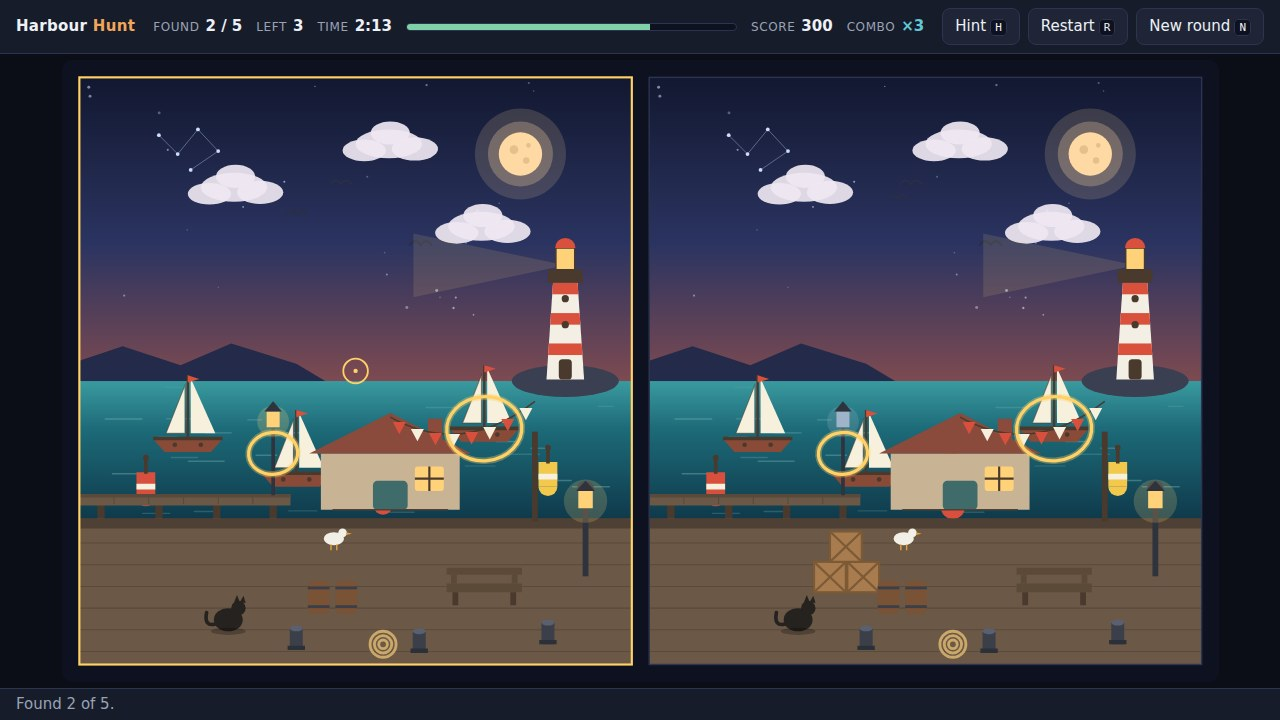
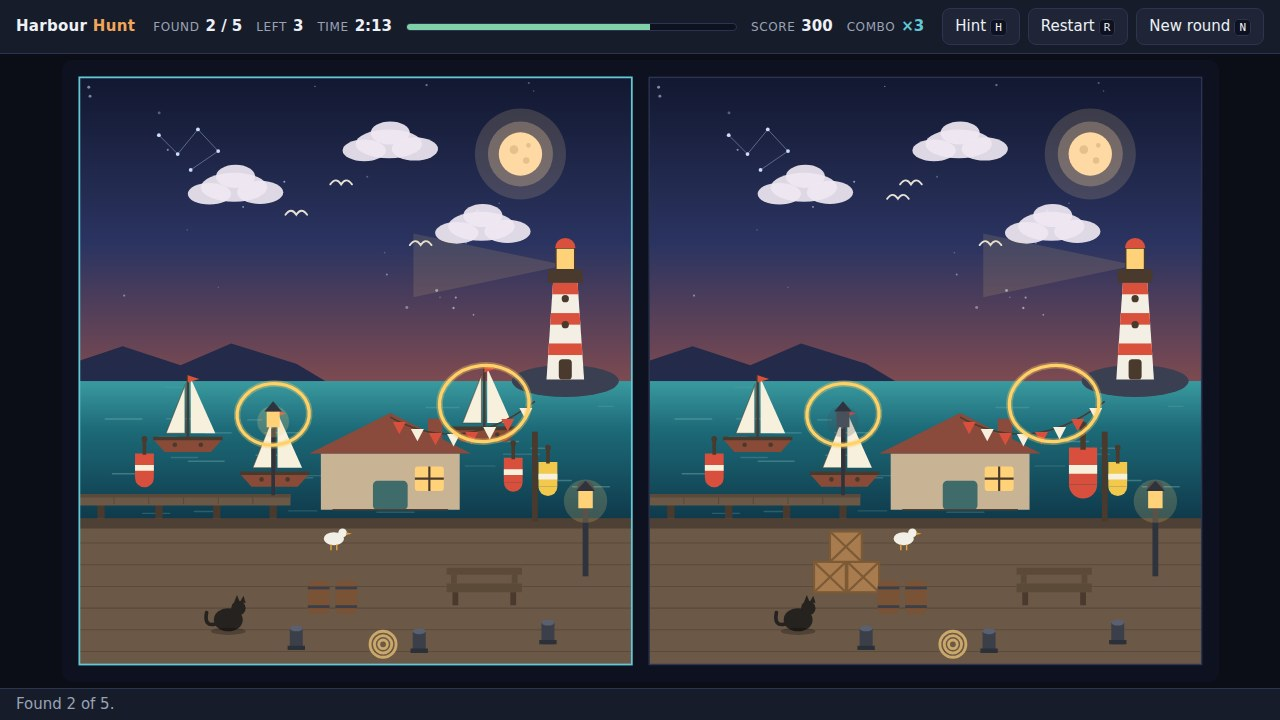
Render missing differences, place hit regions on the visible change, refresh shots
The missing-object mutation was never applied (only the extra prop honoured
present), so a 'missing' round marked a spot that looked the same. Hit regions
now follow each prop's visible body rather than its anchor, the buoy that sat
behind the boathouse moved into open water, and the lamps, birds and size
changes are strong enough to find. Screenshots re-taken.

diff --git a/app/index.html b/app/index.html
@@ -172,7 +172,7 @@ var C = {
   quay: '#6b5847', quayDark: '#4e4034', plank: '#5a4a3c',
   moon: '#ffd9a3', moonAlt: '#cfe6ff',
   cloud: '#efe7f2', cloudAlt: '#f2c9c0',
-  bird: '#2a2f45',
+  bird: '#e6e1d4',
   hill: '#232a4a',
   tower: '#f4efe4', band: '#d9503c', bandAlt: '#3f6b8a',
   rock: '#3a3f52',
@@ -187,7 +187,7 @@ var C = {
   rope: '#c9a86a',
   cat: '#26221f',
   bench: '#5c4a38',
-  lamp: '#2f333d', lampGlass: '#ffd27a', lampGlassAlt: '#9fb4c8',
+  lamp: '#2f333d', lampGlass: '#ffd27a', lampGlassAlt: '#4a4f5c',
   gull: '#f2efe6', beak: '#e0a13c',
   star: '#cfe0ff',
   marker: '#ffd166',
@@ -288,7 +288,7 @@ function buildScene(rng) {
     id: 'moon', x: 610, y: 106, r: 46,
     diffs: [
       { type: 'colour', label: 'the moon', color: C.moonAlt },
-      { type: 'size', label: 'the moon', scale: 1.38 },
+      { type: 'size', label: 'the moon', scale: 1.55 },
       { type: 'position', label: 'the moon', dx: -52, dy: 26 }
     ],
     draw: function (ctx, o) {
@@ -396,7 +396,7 @@ function buildScene(rng) {
     id: 'lighthouse', x: 672, y: 356, r: 62,
     diffs: [
       { type: 'colour', label: 'the lighthouse bands', color: C.bandAlt },
-      { type: 'size', label: 'the lighthouse', scale: 0.8 },
+      { type: 'size', label: 'the lighthouse', scale: 0.7 },
       { type: 'position', label: 'the lighthouse', dx: -44, dy: 0 }
     ],
     draw: function (ctx, o) {
@@ -453,17 +453,17 @@ function buildScene(rng) {
   }
 
   var boatSpecs = [
-    { id: 'boat1', x: 150, y: 500, r: 54, sail: C.sail, hull: C.hull,
-      diffs: [{ type: 'colour', label: 'a sail', color: C.sailAlt }, { type: 'size', label: 'a boat', scale: 0.78 }] },
-    { id: 'boat2', x: 300, y: 548, r: 52, sail: C.sail, hull: C.hull,
+    { id: 'boat1', x: 150, y: 500, r: 54, hit: { x: 150, y: 465, r: 62 }, sail: C.sail, hull: C.hull,
+      diffs: [{ type: 'colour', label: 'a sail', color: C.sailAlt }, { type: 'size', label: 'a boat', scale: 0.68 }] },
+    { id: 'boat2', x: 270, y: 548, r: 52, hit: { x: 270, y: 513, r: 62 }, sail: C.sail, hull: C.hull,
       diffs: [{ type: 'position', label: 'a boat', dx: 56, dy: 8 }] },
-    { id: 'boat3', x: 560, y: 486, r: 52, sail: C.sail, hull: C.hull,
+    { id: 'boat3', x: 560, y: 486, r: 52, hit: { x: 560, y: 451, r: 62 }, sail: C.sail, hull: C.hull,
       diffs: [{ type: 'missing', label: 'a boat' }, { type: 'colour', label: 'a hull', color: C.hullAlt }] }
   ];
   for (i = 0; i < boatSpecs.length; i += 1) {
     (function (spec) {
       add({
-        id: spec.id, x: spec.x, y: spec.y, r: spec.r, diffs: spec.diffs,
+        id: spec.id, x: spec.x, y: spec.y, r: spec.r, hit: spec.hit, diffs: spec.diffs,
         draw: function (ctx, o) { boatDraw(ctx, o, spec); }
       });
     }(boatSpecs[i]));
@@ -479,14 +479,14 @@ function buildScene(rng) {
   }
 
   var buoySpecs = [
-    { id: 'buoy1', x: 92, y: 574, r: 32, color: C.buoy, diffs: [{ type: 'colour', label: 'a buoy', color: C.buoyAlt }, { type: 'missing', label: 'a buoy' }] },
-    { id: 'buoy2', x: 420, y: 586, r: 32, color: C.buoy, diffs: [{ type: 'size', label: 'a buoy', scale: 1.3 }, { type: 'position', label: 'a buoy', dx: 40, dy: -8 }] },
-    { id: 'buoy3', x: 648, y: 560, r: 30, color: C.buoyAlt, diffs: [{ type: 'missing', label: 'a buoy' }] }
+    { id: 'buoy1', x: 90, y: 548, r: 32, hit: { x: 90, y: 534, r: 44 }, color: C.buoy, diffs: [{ type: 'colour', label: 'a buoy', color: C.buoyAlt }, { type: 'missing', label: 'a buoy' }] },
+    { id: 'buoy2', x: 600, y: 554, r: 32, hit: { x: 600, y: 540, r: 44 }, color: C.buoy, diffs: [{ type: 'size', label: 'a buoy', scale: 1.5 }, { type: 'position', label: 'a buoy', dx: 40, dy: -8 }] },
+    { id: 'buoy3', x: 648, y: 560, r: 30, hit: { x: 648, y: 546, r: 42 }, color: C.buoyAlt, diffs: [{ type: 'missing', label: 'a buoy' }] }
   ];
   for (i = 0; i < buoySpecs.length; i += 1) {
     (function (spec) {
       add({
-        id: spec.id, x: spec.x, y: spec.y, r: spec.r, diffs: spec.diffs,
+        id: spec.id, x: spec.x, y: spec.y, r: spec.r, hit: spec.hit, diffs: spec.diffs,
         draw: function (ctx, o) { buoyDraw(ctx, o, spec); }
       });
     }(buoySpecs[i]));
@@ -509,7 +509,7 @@ function buildScene(rng) {
   });
 
   add({
-    id: 'pierlamp', x: 268, y: 520, r: 34,
+    id: 'pierlamp', x: 268, y: 520, r: 34, hit: { x: 268, y: 466, r: 50 },
     diffs: [{ type: 'colour', label: 'the pier lamp', color: C.lampGlassAlt }, { type: 'position', label: 'the pier lamp', dx: -70, dy: 0 }],
     draw: function (ctx, o) {
       var glass = (o && o.color) || C.lampGlass;
@@ -598,8 +598,8 @@ function buildScene(rng) {
   }
 
   add({
-    id: 'barrels', x: 336, y: 742, r: 44,
-    diffs: [{ type: 'size', label: 'the barrels', scale: 1.28 }, { type: 'position', label: 'the barrels', dx: -52, dy: 0 }],
+    id: 'barrels', x: 336, y: 742, r: 44, hit: { x: 336, y: 720, r: 44 },
+    diffs: [{ type: 'size', label: 'the barrels', scale: 1.45 }, { type: 'position', label: 'the barrels', dx: -52, dy: 0 }],
     draw: function (ctx) {
       barrel(ctx, -20);
       barrel(ctx, 18);
@@ -614,14 +614,14 @@ function buildScene(rng) {
   }
 
   var bollardSpecs = [
-    { id: 'bollard1', x: 300, y: 792, r: 26, diffs: [{ type: 'position', label: 'a bollard', dx: 42, dy: -6 }] },
-    { id: 'bollard2', x: 470, y: 796, r: 26, diffs: [{ type: 'missing', label: 'a bollard' }] },
-    { id: 'bollard3', x: 648, y: 784, r: 26, diffs: [{ type: 'position', label: 'a bollard', dx: -40, dy: 4 }] }
+    { id: 'bollard1', x: 300, y: 792, r: 26, hit: { x: 300, y: 780, r: 30 }, diffs: [{ type: 'position', label: 'a bollard', dx: 42, dy: -6 }] },
+    { id: 'bollard2', x: 470, y: 796, r: 26, hit: { x: 470, y: 784, r: 30 }, diffs: [{ type: 'missing', label: 'a bollard' }] },
+    { id: 'bollard3', x: 648, y: 784, r: 26, hit: { x: 648, y: 772, r: 30 }, diffs: [{ type: 'position', label: 'a bollard', dx: -40, dy: 4 }] }
   ];
   for (i = 0; i < bollardSpecs.length; i += 1) {
     (function (spec) {
       add({
-        id: spec.id, x: spec.x, y: spec.y, r: spec.r, diffs: spec.diffs,
+        id: spec.id, x: spec.x, y: spec.y, r: spec.r, hit: spec.hit, diffs: spec.diffs,
         draw: function (ctx) {
           rect(ctx, -9, -30, 18, 30); fill(ctx, C.bollard);
           ellipse(ctx, 0, -30, 9, 4); fill(ctx, '#5a6070');
@@ -641,7 +641,7 @@ function buildScene(rng) {
   });
 
   add({
-    id: 'cat', x: 206, y: 766, r: 34,
+    id: 'cat', x: 206, y: 766, r: 34, hit: { x: 206, y: 746, r: 44 },
     diffs: [{ type: 'missing', label: 'the cat' }, { type: 'position', label: 'the cat', dx: 58, dy: -4 }],
     draw: function (ctx) {
       ellipse(ctx, 0, -16, 20, 16); fill(ctx, C.cat);
@@ -668,7 +668,7 @@ function buildScene(rng) {
   });
 
   add({
-    id: 'lamppost', x: 700, y: 690, r: 44,
+    id: 'lamppost', x: 700, y: 690, r: 44, hit: { x: 700, y: 570, r: 54 },
     diffs: [{ type: 'colour', label: 'the lamp glass', color: C.lampGlassAlt }, { type: 'position', label: 'the lamp post', dx: -46, dy: 0 }],
     draw: function (ctx, o) {
       var glass = (o && o.color) || C.lampGlass;
@@ -823,9 +823,10 @@ function setup(seed) {
   game.variant = applyVariant(game.scene, game.diffs);
   for (var i = 0; i < game.diffs.length; i += 1) {
     var prop = findProp(game.diffs[i].prop);
-    game.diffs[i].x = prop.x;
-    game.diffs[i].y = prop.y;
-    game.diffs[i].r = prop.r;
+    var hit = prop.hit || prop;
+    game.diffs[i].x = hit.x;
+    game.diffs[i].y = hit.y;
+    game.diffs[i].r = hit.r;
   }
   game.found = [];
   game.score = 0;
@@ -926,6 +927,7 @@ function drawScene(g, variant) {
     var prop = g.scene.props[i];
     var o = variant ? variant[prop.id] : null;
     if (prop.extra && !o) continue;
+    if (o && o.present === false) continue;
     ctx.save();
     ctx.translate(prop.x + (o && o.dx || 0), prop.y + (o && o.dy || 0));
     var scale = (o && o.scale) || 1;
@@ -1008,13 +1010,15 @@ function draw() {
     ctx.restore();
 
     // frame, brighter on the picture the keyboard cursor is in
-    ctx.strokeStyle = panel === active && game.screen === 'play' ? C.marker : '#2c3550';
-    ctx.lineWidth = panel === active && game.screen === 'play' ? 3 : 2;
+    // frame: the picture the keyboard cursor is in gets a cool outline, so it
+    // never reads as one of the amber difference markers
+    ctx.strokeStyle = panel === active && game.screen === 'play' ? '#63c7d4' : '#2c3550';
+    ctx.lineWidth = panel === active && game.screen === 'play' ? 2.5 : 2;
     ctx.strokeRect(px, py, PANEL.w, PANEL.h);
   }
 
   // keyboard cursor
-  if (game.screen === 'play') {
+  if (game.screen === 'play' && !shotMode) {
     var cx = PANEL.x[active] + game.cursor.x;
     var cy = PANEL.y + game.cursor.y;
     ctx.strokeStyle = C.marker;
